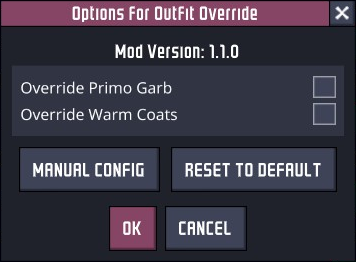
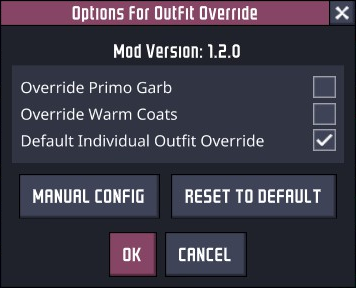
Add individual override per duplicant

diff --git a/OutfitOverride/OutfitOverride.cs b/OutfitOverride/OutfitOverride.cs
@@ -1,15 +1,14 @@
 using HarmonyLib;
 using KMod;
+using KSerialization;
 using OutfitOverride;
 using PeterHan.PLib.Core;
 using PeterHan.PLib.Options;
 using System;
 using System.Collections.Generic;
 using System.Linq;
-using System.Reflection;
-using YamlDotNet.Core.Tokens;
-using static STRINGS.ROOMS.TYPES;
-using static WearableAccessorizer;
+using UnityEngine;
+using UnityEngine.UI;
 
 namespace PreferSupplyClosetClothing
 {
@@ -21,7 +20,6 @@ namespace PreferSupplyClosetClothing
             PUtil.InitLibrary(false);
             new POptions().RegisterOptions(this, typeof(Config));
             base.OnLoad(harmony);
-            Debug.Log("OnLoad");
         }
     }
 
@@ -37,8 +35,13 @@ namespace PreferSupplyClosetClothing
         {
             Dictionary<WearableAccessorizer.WearableType, WearableAccessorizer.Wearable> wearables = Traverse.Create(__instance).Field("wearables").GetValue<Dictionary<WearableAccessorizer.WearableType, WearableAccessorizer.Wearable>>();
 
+            // Compute the current highest accessory directly from the wearables dictionary
+            // instead of trusting the incoming __result. This prevents an early exit when __result
+            // doesn't equal Outfit (for example during a toggle-triggered refresh).
+            var currentHighest = wearables.Keys.Any() ? wearables.Keys.Max() : WearableAccessorizer.WearableType.Basic;
+
             // Only consider overwriting when the current highest accessory is Outfit and CustomClothing exists
-            bool overrideOutfit = __result == WearableAccessorizer.WearableType.Outfit && wearables.ContainsKey(WearableAccessorizer.WearableType.CustomClothing);
+            bool overrideOutfit = currentHighest == WearableAccessorizer.WearableType.Outfit && wearables.ContainsKey(WearableAccessorizer.WearableType.CustomClothing);
 
             if (!overrideOutfit)
                 return __result;
@@ -50,31 +53,61 @@ namespace PreferSupplyClosetClothing
             bool hasSnazzy = outfitWearable.AnimNames != null && outfitWearable.AnimNames.Contains(snazzyAnim);
             bool hasWarmCoat = outfitWearable.AnimNames != null && outfitWearable.AnimNames.Contains(warmCoatAnim);
 
+            // Decide whether the normal override logic would want to override
+            bool shouldOverride = false;
+
             // Snazzy suit, always override
             if (hasSnazzy)
             {
-                return WearableAccessorizer.WearableType.CustomClothing;
+                shouldOverride = true;
             }
-
-            // If warm coat equipped, check the config
-            if (hasWarmCoat)
+            else if (hasWarmCoat)
             {
-                // Only override warm coats if enabled
+                // Only override warm coats if enabled in config
                 if (Config.Instance.OverrideWarmCoats)
                 {
-                    return WearableAccessorizer.WearableType.CustomClothing;
+                    shouldOverride = true;
                 }
-
-                return __result;
+                else
+                {
+                    shouldOverride = false;
+                }
             }
-
-            // Outfit isn't snazzy or warm coat, only override if Primo is enabled
-            if (Config.Instance.OverridePrimoGarb)
+            else
             {
-                return WearableAccessorizer.WearableType.CustomClothing;
+                // Outfit isn't snazzy or warm coat, only override if Primo is enabled
+                if (Config.Instance.OverridePrimoGarb)
+                {
+                    shouldOverride = true;
+                }
+                else
+                {
+                    shouldOverride = false;
+                }
             }
 
-            return __result;
+            // Honor an explicit per-duplicant disabled state: if the duplicant has a saved state that
+            // explicitly disables the override, cancel any override decision.
+            try
+            {
+                var minion = __instance.GetComponent<MinionIdentity>();
+                if (minion != null)
+                {
+                    var state = minion.GetComponent<OverrideSaveState>();
+                    if (state != null && !state.IsOverrideEnabled)
+                    {
+                        return __result;
+                    }
+                    // If there is no saved state, we can also check the global config default and skip override if the default is to disable.
+                    else if (state == null)
+                    {
+                        shouldOverride = Config.Instance.DefaultIndividualOverride;
+                    }
+                }
+            }
+            catch { }
+
+            return shouldOverride ? WearableAccessorizer.WearableType.CustomClothing : __result;
         }
     }
 
@@ -84,13 +117,196 @@ namespace PreferSupplyClosetClothing
     {
         static void Prefix(WearableAccessorizer __instance)
         {
-            Debug.Log("ApplyWearable");
-            Debug.Log("Dupe: " + __instance.GetProperName());
             Dictionary<WearableAccessorizer.WearableType, WearableAccessorizer.Wearable> wearables = Traverse.Create(__instance).Field("wearables").GetValue<Dictionary<WearableAccessorizer.WearableType, WearableAccessorizer.Wearable>>();
 
             if (wearables.TryGetValue(WearableAccessorizer.WearableType.CustomClothing, out var customWearable))
             {
                 customWearable.buildOverridePriority = 6;
+            }
+        }
+    }
+
+    // Persisted per-duplicant override state. Saved with the game's save system.
+    [SerializationConfig(MemberSerialization.OptIn)]
+    public class OverrideSaveState : KMonoBehaviour, ISaveLoadable
+    {
+        // When true the override is enabled for this duplicant.
+        [Serialize]
+        public bool IsOverrideEnabled = Config.Instance.DefaultIndividualOverride;
+    }
+
+    [HarmonyPatch(typeof(MinionConfig), "CreatePrefab")]
+    public static class MinionConfig_CreatePrefab_Patch
+    {
+        public static void Postfix(GameObject __result)
+        {
+            __result.AddOrGet<OverrideSaveState>();
+        }
+    }
+
+    // Patch that ensures a new toggle-button is created next to the existing edit button in the CosmeticsPanel.
+    // The new button is instantiated once and re-used; it's shown/hidden to match the edit button state.
+    [HarmonyPatch(typeof(CosmeticsPanel), nameof(CosmeticsPanel.Refresh))]
+    public static class CosmeticsPanel_AddButton
+    {
+        // Keep a reference so we don't create multiple clones
+        private static KButton overrideButton;
+
+        public static void Postfix(CosmeticsPanel __instance)
+        {
+            // Get the original edit button (private field)
+            var editButton = Traverse.Create(__instance).Field("editButton").GetValue<KButton>();
+            if (editButton == null)
+                return;
+
+            // Get current selected target (may be null or a building)
+            var selectedTarget = Traverse.Create(__instance).Field("selectedTarget").GetValue<GameObject>();
+
+            // Create and cache the override button by cloning the edit button's GameObject
+            if (overrideButton == null || overrideButton.gameObject == null)
+            {
+                try
+                {
+                    GameObject clone = Util.KInstantiateUI(editButton.gameObject, editButton.transform.parent.gameObject, true);
+                    clone.name = "OverrideToggleButton";
+                    overrideButton = clone.GetComponent<KButton>();
+
+                    // Clear any inherited callbacks and add our own toggle behavior
+                    overrideButton.ClearOnClick();
+                    // Query the current selected target at click time to avoid a stale captured value.
+                    overrideButton.onClick += () =>
+                    {
+                        var currentSelected = Traverse.Create(__instance).Field("selectedTarget").GetValue<GameObject>();
+                        ToggleForSelectedTarget(currentSelected);
+                    };
+
+                    // Position the button in the panel
+                    PositionButtonRelativeTo(editButton, overrideButton);
+                }
+                catch (Exception e)
+                {
+                    Debug.LogError($"Failed to create override toggle button: {e}");
+                    return;
+                }
+            }
+            else
+            {
+                // Re-position on each refresh in case layout changed
+                PositionButtonRelativeTo(editButton, overrideButton);
+            }
+
+            // Show/hide the override button to match the edit button visibility and current outfit tab.
+            try
+            {
+                // Read the private selectedOutfitCategory from CosmeticsPanel to decide visibility.
+                var showButton = false;
+                try
+                {
+                    var selectedCategory = Traverse.Create(__instance).Field("selectedOutfitCategory").GetValue<ClothingOutfitUtility.OutfitType>();
+                    showButton = editButton.gameObject.activeSelf && selectedCategory == ClothingOutfitUtility.OutfitType.Clothing;
+                }
+                catch
+                {
+                }
+
+                overrideButton.gameObject.SetActive(showButton);
+            }
+            catch { }
+
+            // Update label according to selected target's saved state
+            UpdateToggleLabelForSelectedTarget();
+
+            // Local helpers
+            void UpdateToggleLabelForSelectedTarget()
+            {
+                try
+                {
+                    // Default to the global config default if no target or no saved state, otherwise reflect the saved state.
+                    bool enabled = Config.Instance.DefaultIndividualOverride;
+                    if (selectedTarget != null)
+                    {
+                        var state = selectedTarget.GetComponent<OverrideSaveState>();
+                        if (state != null)
+                            enabled = state.IsOverrideEnabled;
+                    }
+
+                    var label = overrideButton.GetComponentInChildren<LocText>();
+                    label?.SetText(enabled ? "Disable Override" : "Enable Override");
+                }
+                catch { }
+            }
+
+            void ToggleForSelectedTarget(GameObject target)
+            {
+                try
+                {
+                    if (target == null)
+                        return;
+
+                    var state = target.GetComponent<OverrideSaveState>();
+                    if (state == null)
+                    {
+                        // There was no saved state. Clicking should create a saved state and toggle the override based on the global config default.
+                        state = target.AddComponent<OverrideSaveState>();
+                        state.IsOverrideEnabled = !Config.Instance.DefaultIndividualOverride;
+                    }
+                    else
+                    {
+                        state.IsOverrideEnabled = !state.IsOverrideEnabled;
+                    }
+
+                    var label = overrideButton.GetComponentInChildren<LocText>();
+                    label?.SetText(state.IsOverrideEnabled ? "Disable Override" : "Enable Override");
+
+                    // Refresh visuals by invoking ApplyWearable via Traverse.
+                    try
+                    {
+                        var wearableAccessorizer = target.GetComponent<WearableAccessorizer>();
+                        if (wearableAccessorizer != null)
+                        {
+                            Traverse.Create(wearableAccessorizer).Method("ApplyWearable").GetValue();
+                        }
+                    }
+                    catch (Exception e)
+                    {
+                        Debug.LogError($"Error refreshing wearables after toggle: {e}");
+                    }
+                }
+                catch (Exception e)
+                {
+                    Debug.LogError($"Error toggling override state: {e}");
+                }
+            }
+
+            void PositionButtonRelativeTo(KButton reference, KButton target)
+            {
+                try
+                {
+                    var editRect = reference.GetComponent<RectTransform>();
+                    var overrideRect = target.GetComponent<RectTransform>();
+                    if (editRect != null && overrideRect != null)
+                    {
+                        Transform parentContainer = editRect.parent.parent;
+                        if (parentContainer != null)
+                        {
+                            overrideRect.SetParent(parentContainer, worldPositionStays: false);
+
+                            var layoutElement = target.GetComponent<LayoutElement>() ?? target.FindOrAddComponent<LayoutElement>();
+                            layoutElement.preferredWidth = 120f;
+
+                            overrideRect.SetAsLastSibling();
+                            overrideRect.sizeDelta = new Vector2(120f, 30f);
+                        }
+                        else
+                        {
+                            target.transform.SetParent(reference.transform.parent);
+                        }
+                    }
+                }
+                catch (Exception e)
+                {
+                    Debug.LogError($"Error positioning override button: {e}");
+                }
             }
         }
     }

diff --git a/OutfitOverride/Config.cs b/OutfitOverride/Config.cs
@@ -1,10 +1,6 @@
 using Newtonsoft.Json;
 using PeterHan.PLib.Options;
 using System;
-using System.Collections.Generic;
-using System.Linq;
-using System.Text;
-using System.Threading.Tasks;
 
 namespace OutfitOverride
 {
@@ -22,5 +18,10 @@ namespace OutfitOverride
         [Option("Override Warm Coats",
             "Replace the appearance of Warm Coats with the duplicant’s Supply Closet outfit.")]
         public bool OverrideWarmCoats { get; set; } = false;
+
+        [JsonProperty]
+        [Option("Default Individual Outfit Override",
+            "Whether the outfit override is enabled by default for individual duplicants. You can still toggle the override on or off for each duplicant separately.")]
+        public bool DefaultIndividualOverride { get; set; } = true;
     }
 }

diff --git a/OutfitOverride/Properties/AssemblyInfo.cs b/OutfitOverride/Properties/AssemblyInfo.cs
@@ -30,5 +30,5 @@ using System.Runtime.InteropServices;
 //      Revision
 //
 [assembly: AssemblyVersion("1.0.0.0")]
-[assembly: AssemblyFileVersion("1.1.0.0")]
-[assembly: AssemblyInformationalVersion("1.1.0")]
+[assembly: AssemblyFileVersion("1.2.0.0")]
+[assembly: AssemblyInformationalVersion("1.2.0")]
